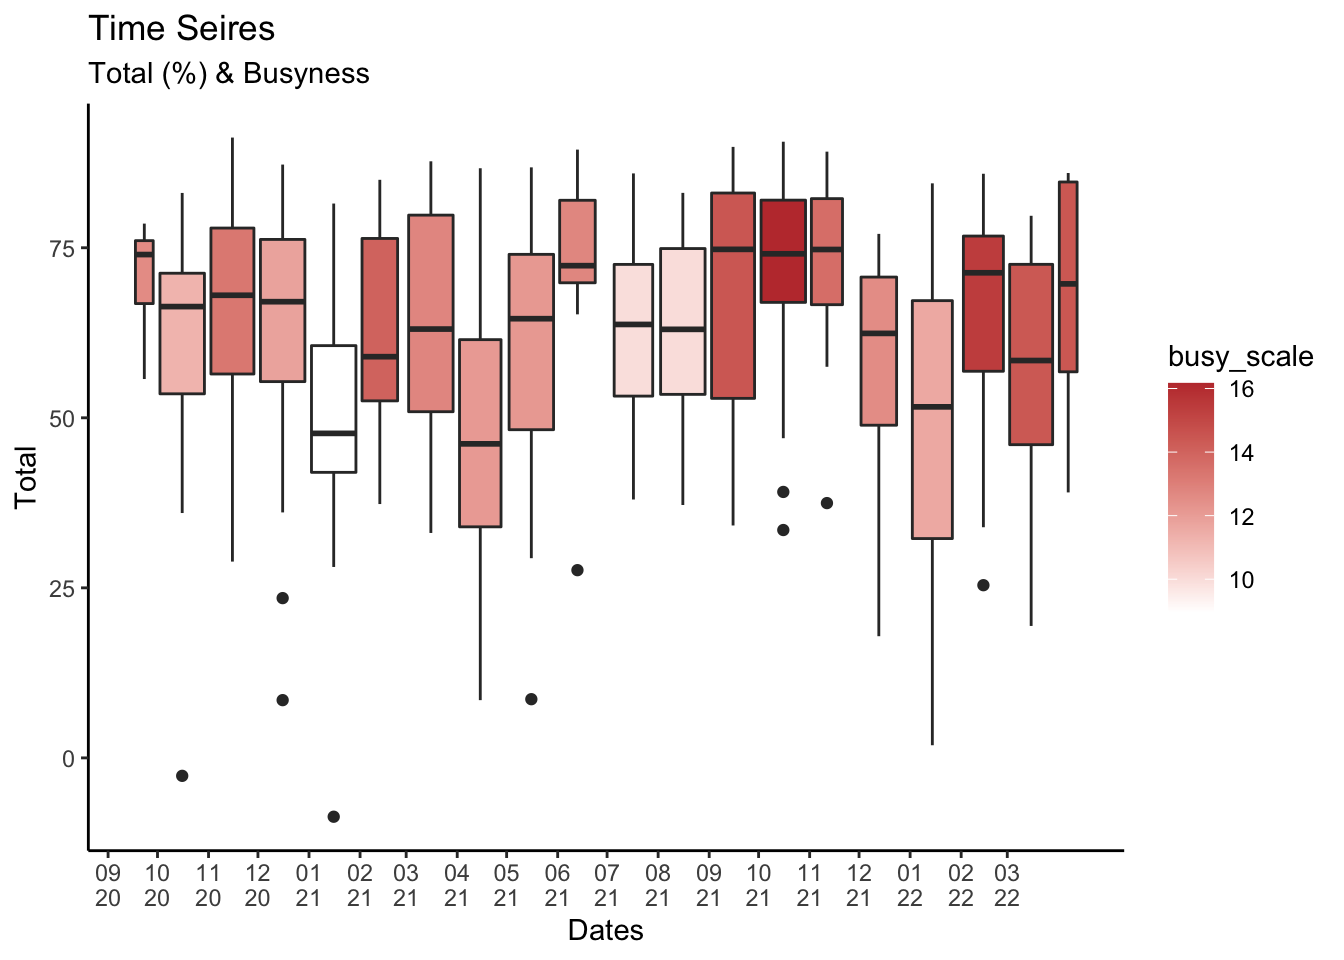
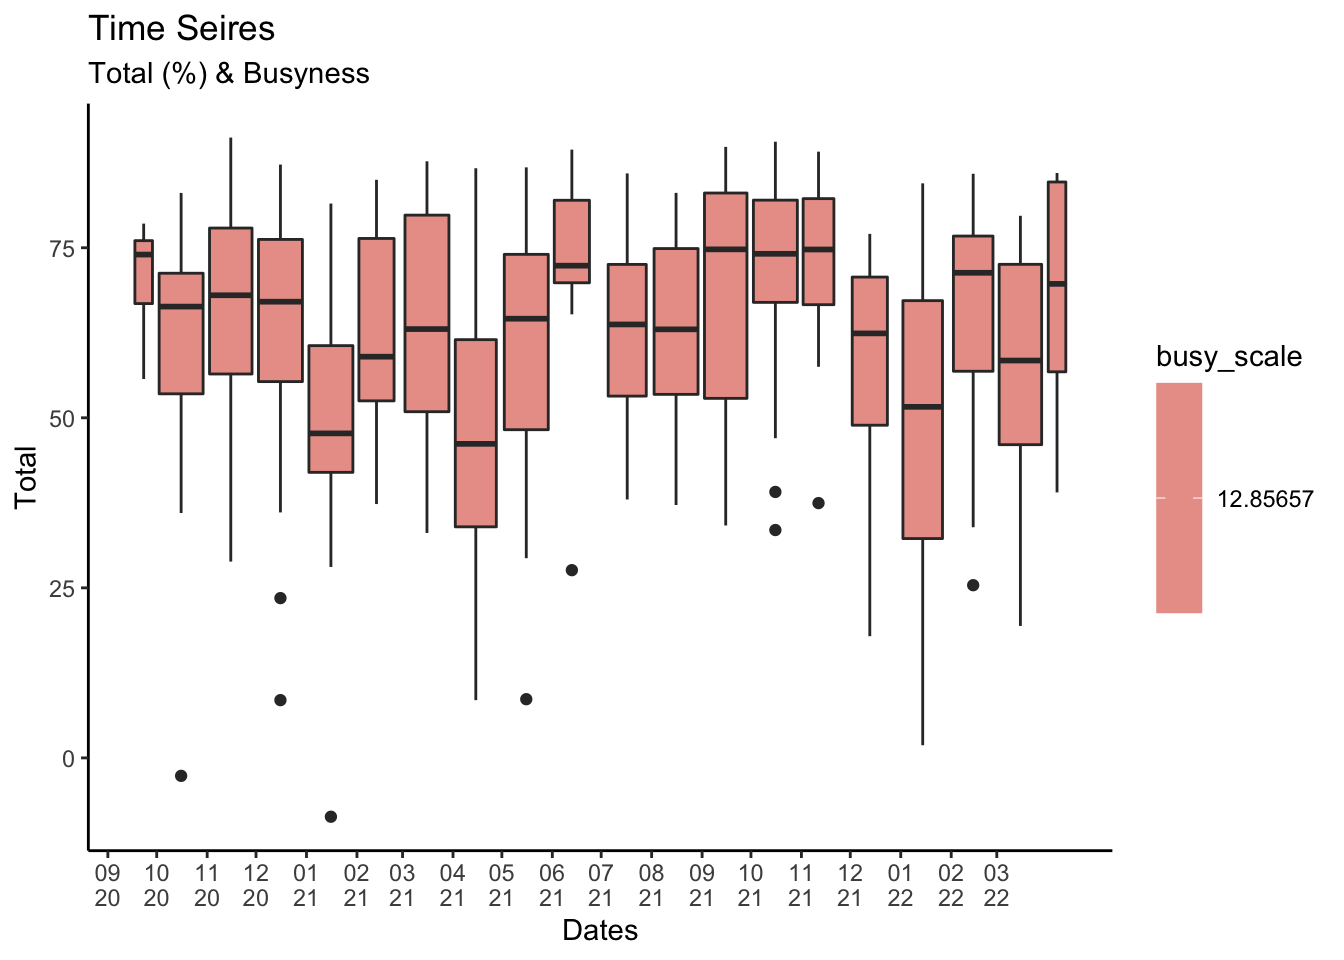
work

diff --git a/self_evaluation.html b/self_evaluation.html
@@ -695,6 +695,8 @@ summary(model)</code></pre>
 ##   (28 observations deleted due to missingness)
 ## Multiple R-squared:  0.5023, Adjusted R-squared:  0.4969 
 ## F-statistic: 93.06 on 5 and 461 DF,  p-value: &lt; 2.2e-16</code></pre>
+<p><br><br />
+<br></p>
 </div>
 <div id="actual-vs-prediction-visualization-for-work_done-all_dat" class="section level2">
 <h2>Actual vs Prediction Visualization for Work_done (all_dat)</h2>
@@ -714,10 +716,6 @@ ggplot(data = all_dat, aes(x = pred_work_finished, y = work_finished)) +
        y = &quot;Tasks Finshed (y)&quot;, x = expression(hat(y)))+
   theme(plot.title = element_text(face = &quot;bold&quot;))+
   theme_minimal()</code></pre>
-<pre><code>## `geom_smooth()` using method = &#39;loess&#39; and formula &#39;y ~ x&#39;</code></pre>
-<pre><code>## Warning: Removed 28 rows containing non-finite values (stat_smooth).</code></pre>
-<pre><code>## Warning: Removed 28 rows containing missing values (geom_point).</code></pre>
-<pre><code>## Warning: Removed 3 row(s) containing missing values (geom_path).</code></pre>
 <p><img src="self_evaluation_files/figure-html/unnamed-chunk-14-1.png" width="672" /> <br><br />
 - Systematic Error can be observed</p>
 </div>
@@ -776,11 +774,10 @@ fit = ets(myts)
 plot(fit)</code></pre>
 <p><img src="self_evaluation_files/figure-html/unnamed-chunk-18-1.png" width="672" /></p>
 <p><br></p>
-<pre class="r"><code>detach(package:plyr)
-box_dat &lt;- all_dat %&gt;%
-  group_by(month) %&gt;%
+<pre class="r"><code>box_dat &lt;- all_dat %&gt;%
+  dplyr::group_by(month) %&gt;%
   mutate(my = make_date(year, month)) %&gt;%
-  group_by(my) %&gt;%
+  dplyr::group_by(my) %&gt;%
   mutate(busy_scale = mean(Total_todo))
 
 dates = seq(as.Date(&#39;09/01/2020&#39;, format = &quot;%m/%d/%Y&quot;), 

diff --git a/index.html b/index.html
@@ -296,7 +296,7 @@ $(document).ready(function () {
 </div>
 
 
-<p><span style="float:right"><strong>Last Updated Time</strong>: 2022-04-14 15:50:09</span></p>
+<p><span style="float:right"><strong>Last Updated Time</strong>: 2022-04-14 15:57:44</span></p>
 <hr />
 <p><br></p>
 <div id="self-evaluation-project" class="section level2">
